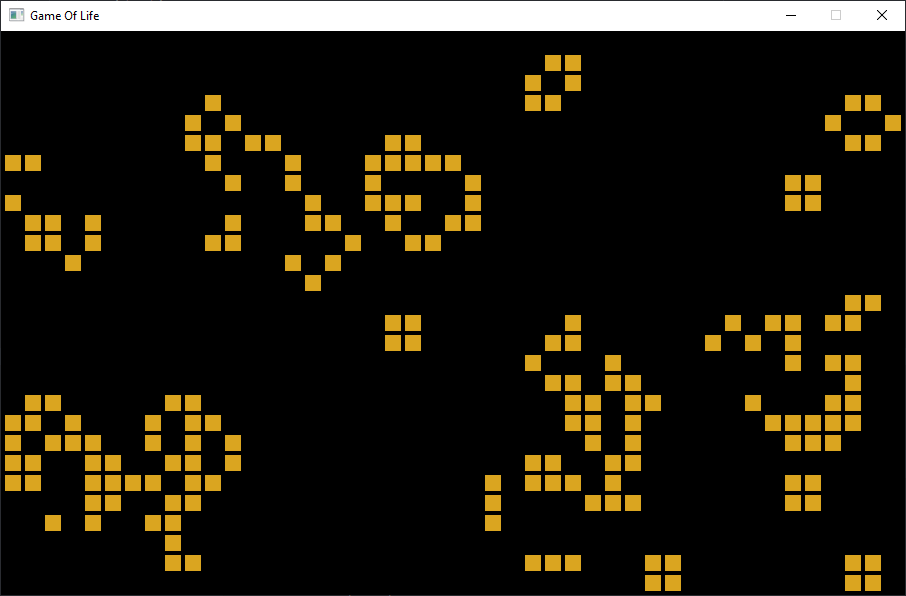
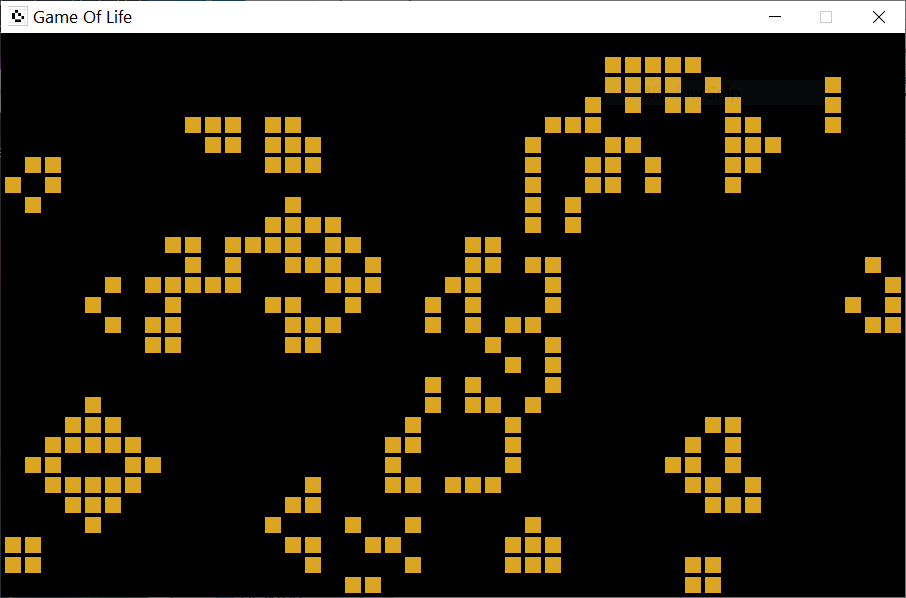
Updating showcase images

diff --git a/libgdx/README.md b/libgdx/README.md
@@ -1,7 +1,8 @@
 # Game Of Life using Java + libgdx
 
 ![Normal View](https://github.com/LelsersLasers/GameOfLife/raw/main/libgdx/Showcase/normalView.PNG)
-![Advanced View](https://github.com/LelsersLasers/GameOfLife/raw/main/libgdx/Showcase/advancedView.PNG)
+![Difference View](https://github.com/LelsersLasers/GameOfLife/raw/main/libgdx/Showcase/differenceVieww)
+!Neighbors View](https://github.com/LelsersLasers/GameOfLife/raw/main/libgdx/Showcase/advancedView.PNG)
 
 To run:
 - Run the GameOfLife.jar (in Build)
